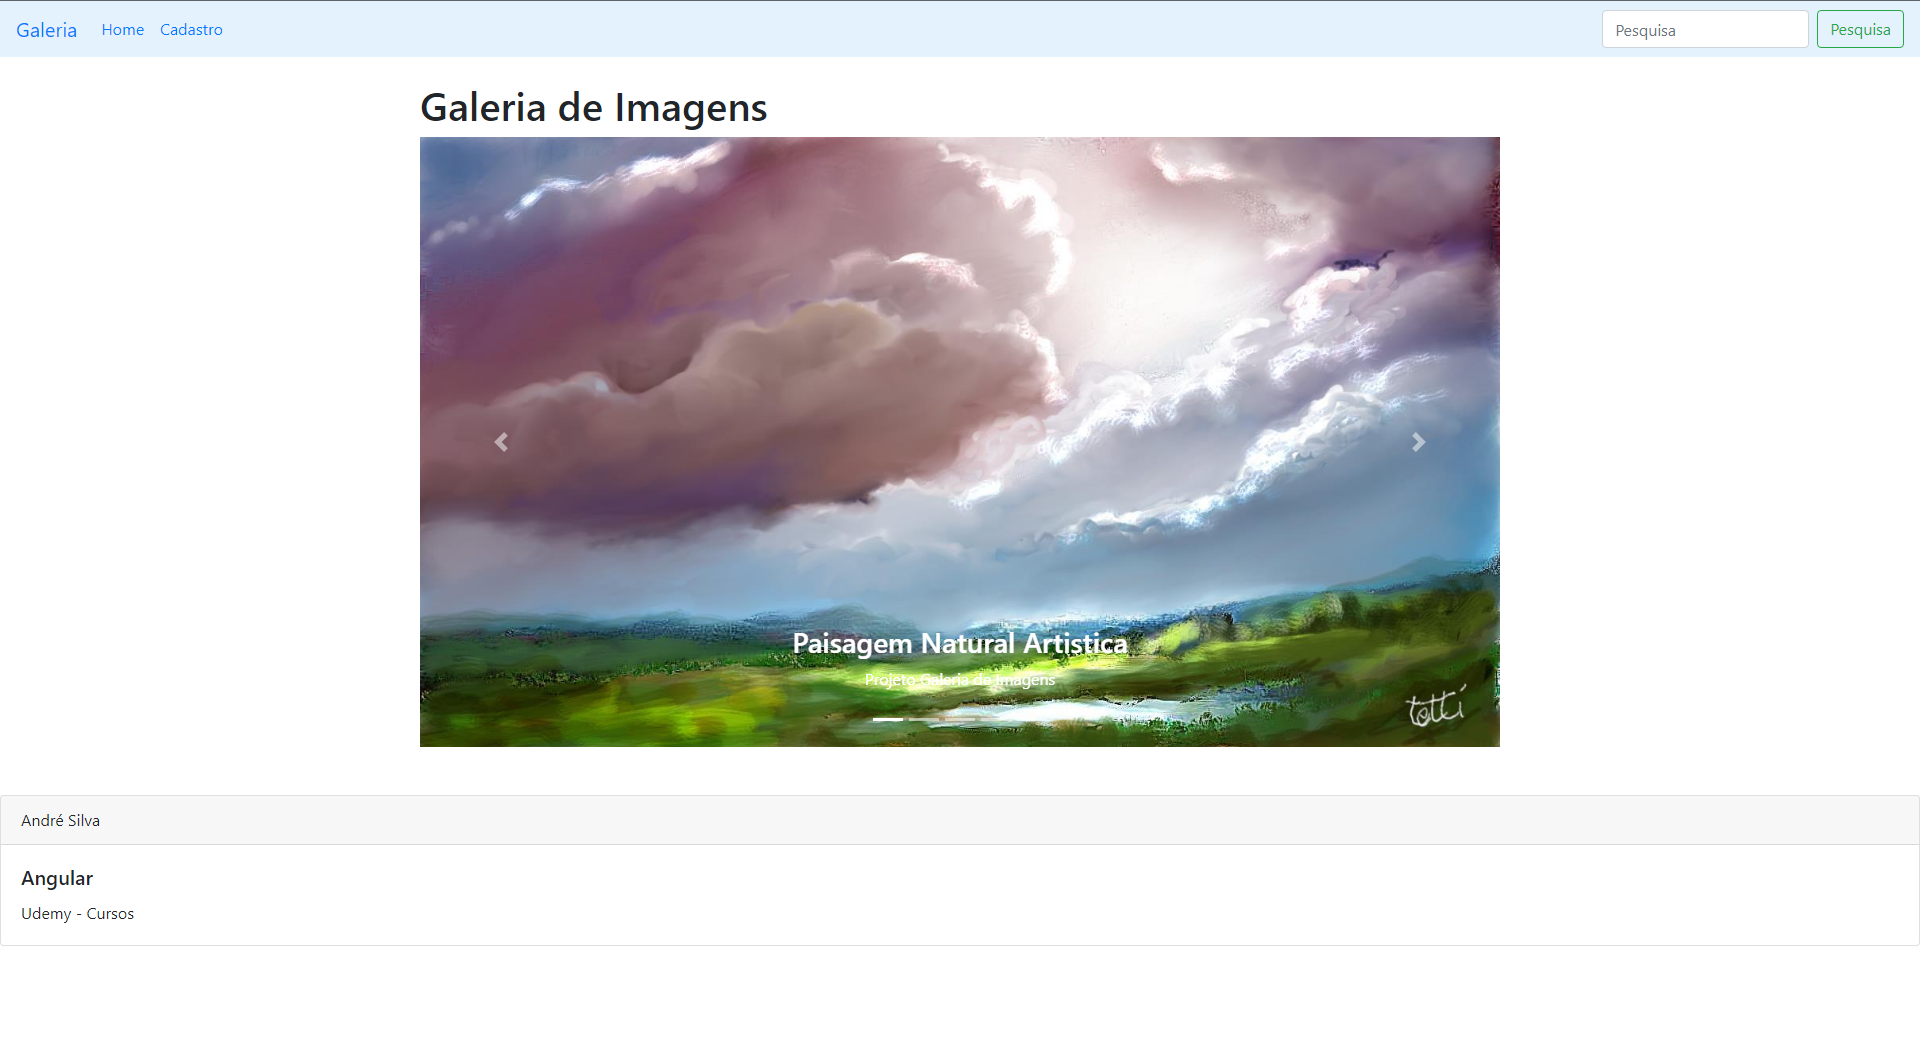
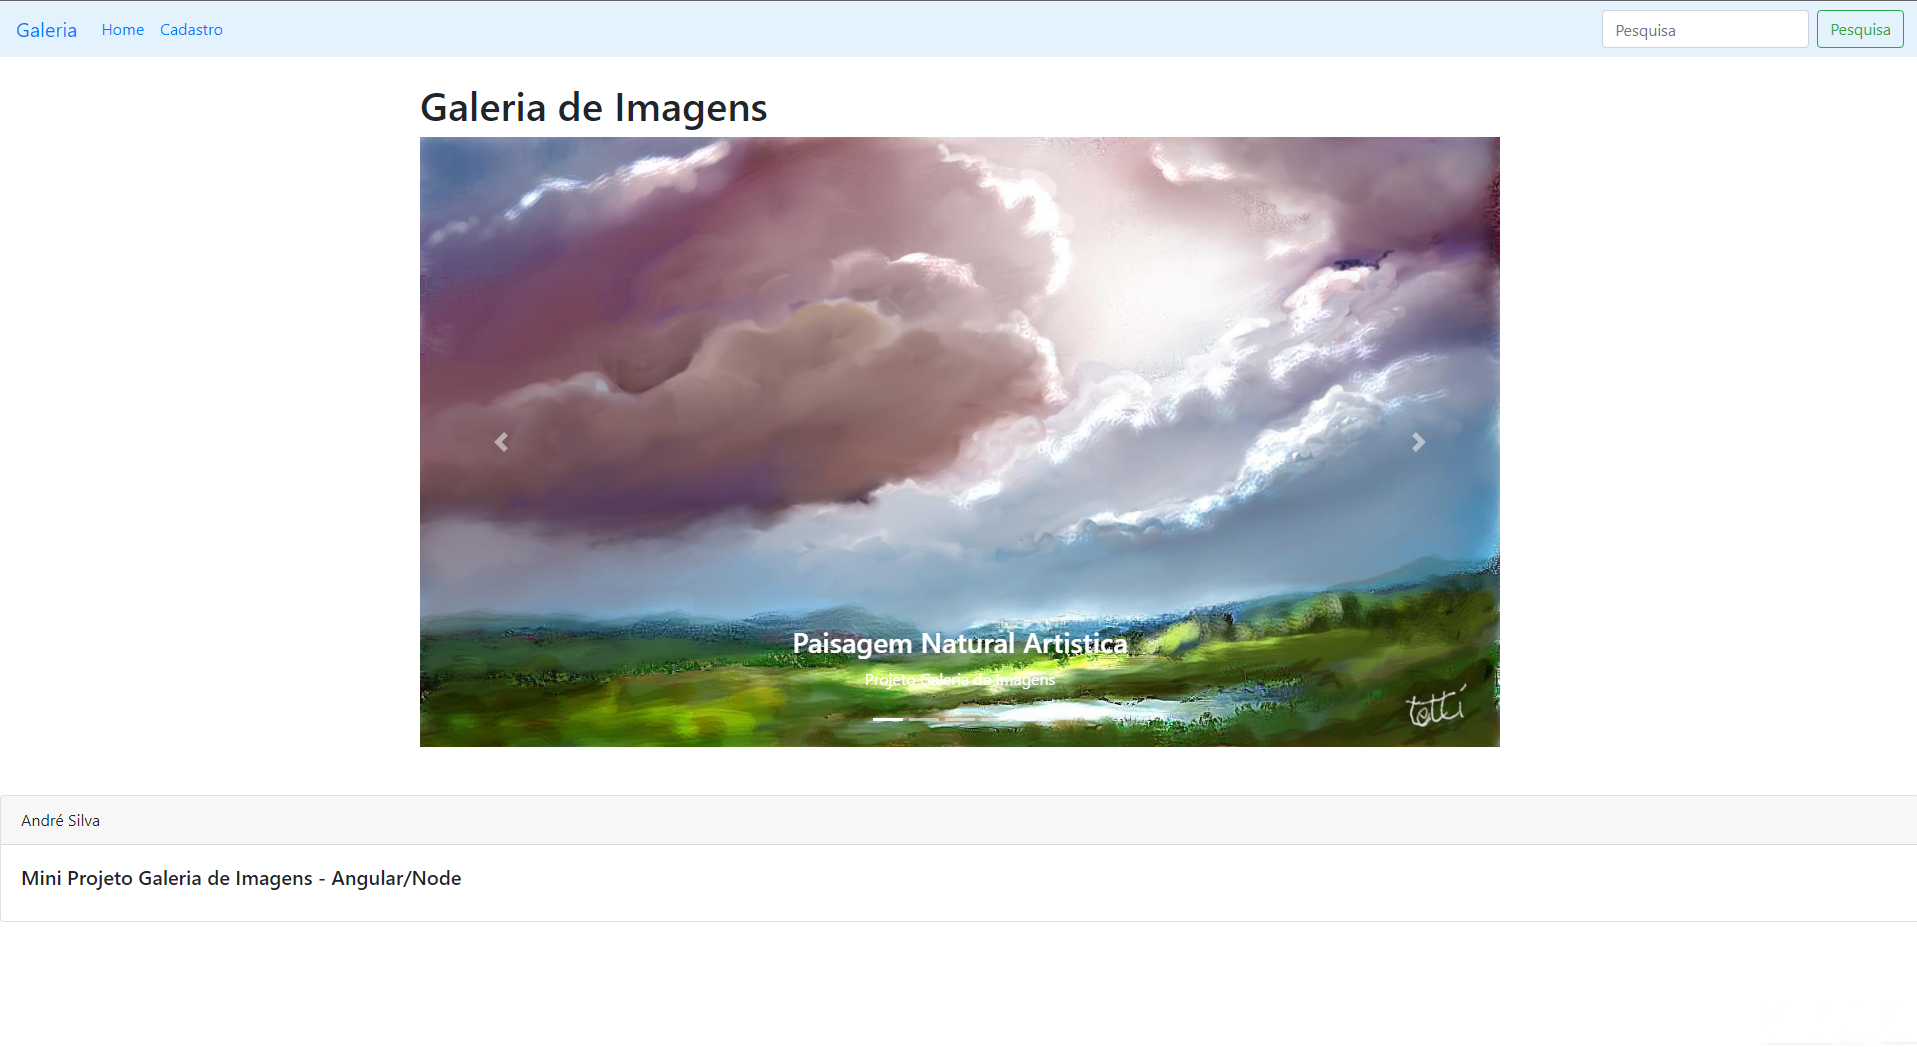
Correção app-component-html

diff --git a/webapp/src/app/app.component.html b/webapp/src/app/app.component.html
@@ -39,8 +39,7 @@
             André Silva
         </div>
         <div class="card-body">
-            <h5 class="card-title">Angular </h5>
-            <p class="card-text">Udemy - Cursos</p>
+            <h5 class="card-title">Mini Projeto Galeria de Imagens - Angular/Node </h5>
         </div>
     </div>
 </footer>
